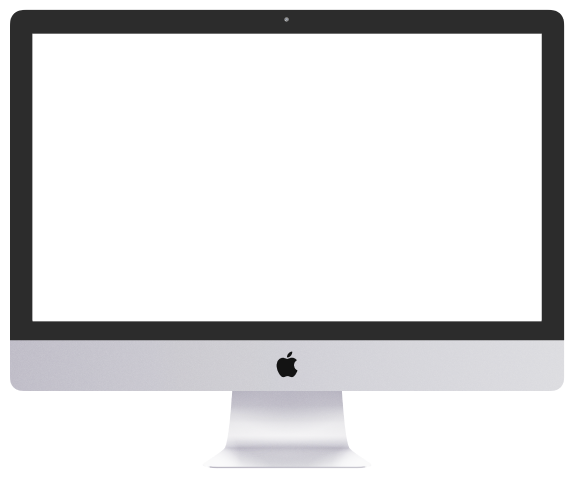
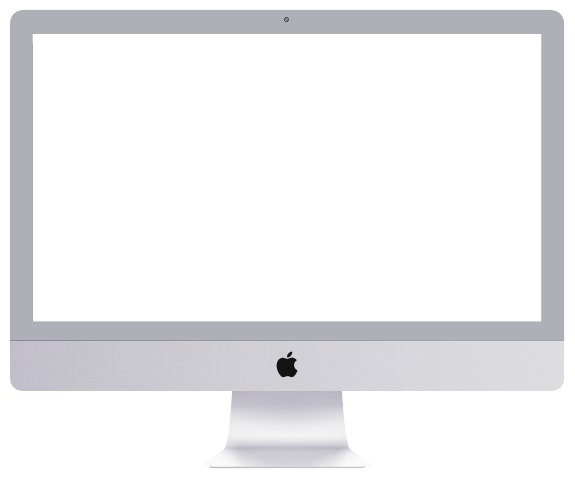
포트폴리오, 다크모드, 라이트모드 목업 이미지 교체

Changed region(s): [[0.0, 0.0, 1.0, 0.7322]]

diff --git a/docs/common.css b/docs/common.css
@@ -590,7 +590,7 @@ body {
 }
 
 .portfolio .tab-menu>.body .mockup>.site-img:hover>img {
-  top: -749px;
+  top: -750px;
 }
 
 .portfolio .tab-menu>.body .mockup>.mouseover-img {
